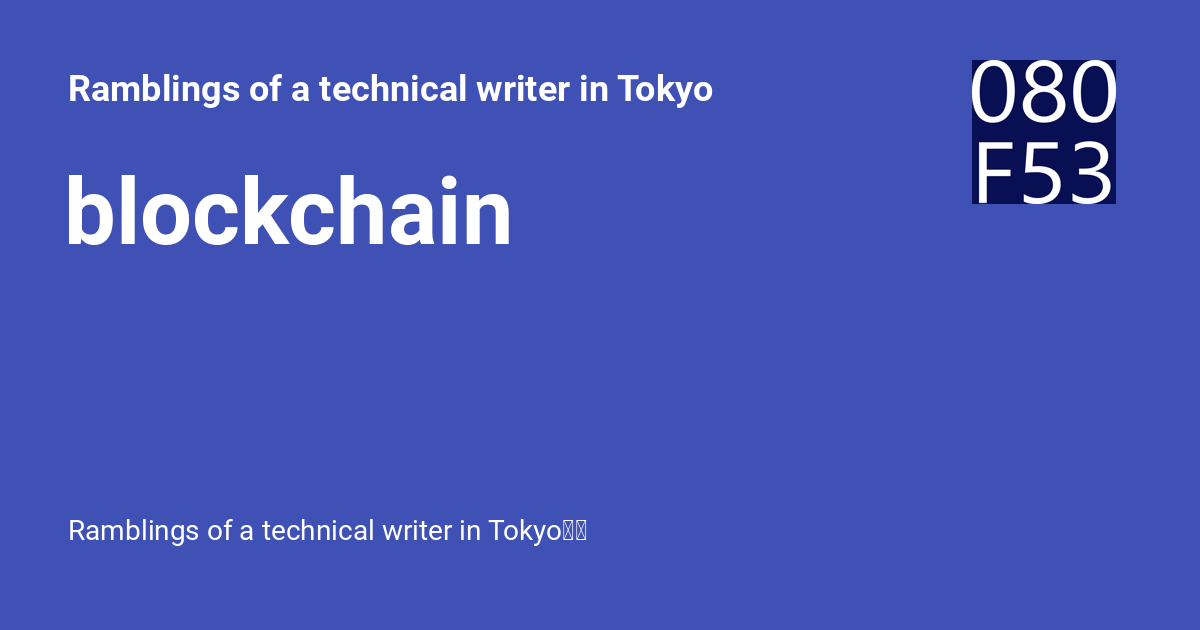
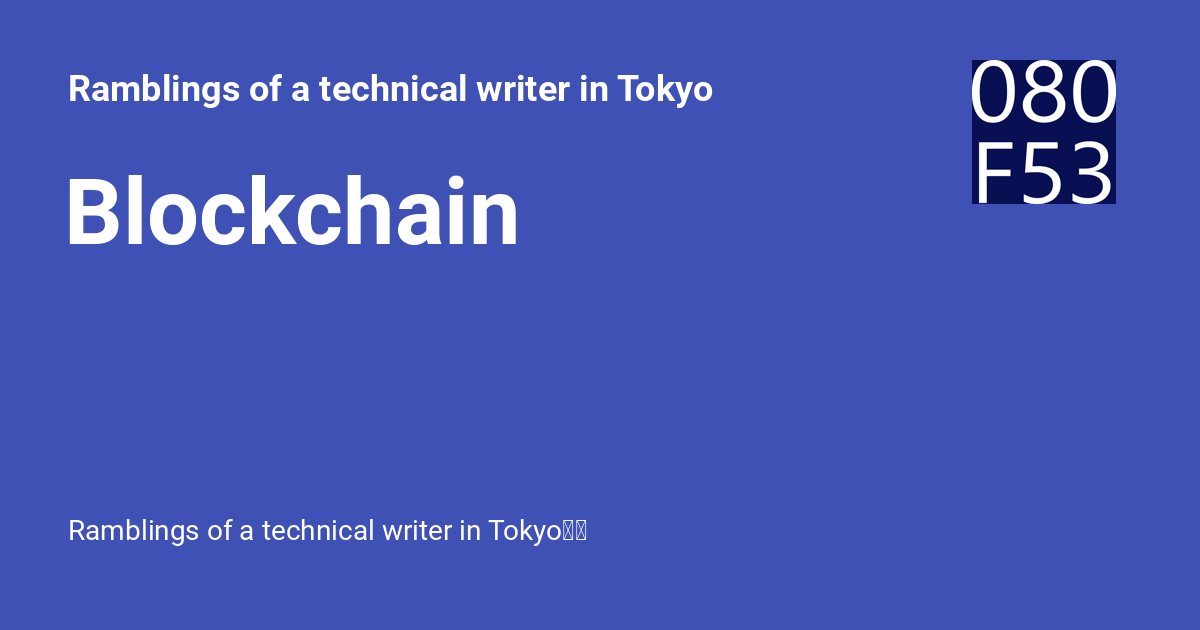
Deployed 90be3ca1 with MkDocs version: 1.4.2

Changed region(s): [[0.0617, 0.2714, 0.4317, 0.3921]]

diff --git a/category/blockchain/index.html b/category/blockchain/index.html
@@ -30,7 +30,7 @@
     
     
       
-        <title>blockchain - Ramblings of a technical writer in Tokyo</title>
+        <title>Blockchain - Ramblings of a technical writer in Tokyo</title>
       
     
     
@@ -120,7 +120,7 @@
       
         <meta  property="og:type"  content="website" >
       
-        <meta  property="og:title"  content="blockchain - Ramblings of a technical writer in Tokyo" >
+        <meta  property="og:title"  content="Blockchain - Ramblings of a technical writer in Tokyo" >
       
         <meta  property="og:description"  content="Ramblings of a technical writer in Tokyo🗼🗾" >
       
@@ -136,7 +136,7 @@
       
         <meta  name="twitter:card"  content="summary_large_image" >
       
-        <meta  name="twitter:title"  content="blockchain - Ramblings of a technical writer in Tokyo" >
+        <meta  name="twitter:title"  content="Blockchain - Ramblings of a technical writer in Tokyo" >
       
         <meta  name="twitter:description"  content="Ramblings of a technical writer in Tokyo🗼🗾" >
       
@@ -197,7 +197,7 @@
         <div class="md-header__topic" data-md-component="header-topic">
           <span class="md-ellipsis">
             
-              blockchain
+              Blockchain
             
           </span>
         </div>
@@ -781,7 +781,7 @@
     
   
     <span class="md-typeset">
-      <abbr title="A type of distributed-ledger technology">blockchain</abbr>
+      Blockchain
     </span>
   
 
@@ -1327,7 +1327,7 @@
   <div class="md-content" data-md-component="content">
     <div class="md-content__inner">
       <header class="md-typeset">
-        <h1 id="blockchain"><abbr title="A type of distributed-ledger technology">blockchain</abbr><a class="headerlink" href="#blockchain" title="Permanent link">&para;</a></h1>
+        <h1 id="blockchain">Blockchain<a class="headerlink" href="#blockchain" title="Permanent link">&para;</a></h1>
 <!-- Most of the following definitions are courtesy of Wikipedia, unless otherwise noted. -->
 <!-- *[Bitcoin]: An innovative proof-of-work blockchain payment network and a new kind of money -->
 <!-- Definition based on Bitcoin.org -->
@@ -1352,7 +1352,7 @@
           <li class="md-meta__item">
             in
             
-              <a href="./" class="md-meta__link">blockchain</a></li>
+              <a href="./" class="md-meta__link">Blockchain</a></li>
         
         
           

diff --git a/tags/index.html b/tags/index.html
@@ -766,7 +766,7 @@
     
   
     <span class="md-typeset">
-      <abbr title="A type of distributed-ledger technology">blockchain</abbr>
+      Blockchain
     </span>
   
 
@@ -1390,7 +1390,7 @@
     <span class="md-ellipsis">
       
         <span class="md-typeset">
-          <span class="md-tag">cloud-storage</span>
+          <span class="md-tag">cloud storage</span>
         </span>
       
     </span>
@@ -1734,7 +1734,7 @@
 <ul>
 <li><a href="../blog/2022/10/recap-of-my-participation-in-the-2022-tell-21007-step-up-challenge/">Recap of my participation in the 2022 TELL 21,007 Step Up Challenge</a></li>
 </ul>
-<h2 id="cloud-storage"><span class="md-tag">cloud-storage</span><a class="headerlink" href="#cloud-storage" title="Permanent link">&para;</a></h2>
+<h2 id="cloud-storage"><span class="md-tag">cloud storage</span><a class="headerlink" href="#cloud-storage" title="Permanent link">&para;</a></h2>
 <ul>
 <li><a href="../blog/2018/06/understanding-blockchain-based-decentralized-cloud-storage/">Understanding <abbr title="A type of distributed-ledger technology">blockchain</abbr>-based, decentralized cloud storage</a></li>
 </ul>

diff --git a/category/books/index.html b/category/books/index.html
@@ -772,7 +772,7 @@
     
   
     <span class="md-typeset">
-      <abbr title="A type of distributed-ledger technology">blockchain</abbr>
+      Blockchain
     </span>
   
 
@@ -1400,7 +1400,7 @@
       <nav class="md-footer__inner md-grid" aria-label="Footer" >
         
           
-          <a href="../blockchain/" class="md-footer__link md-footer__link--prev" aria-label="Previous: blockchain" rel="prev">
+          <a href="../blockchain/" class="md-footer__link md-footer__link--prev" aria-label="Previous: Blockchain" rel="prev">
             <div class="md-footer__button md-icon">
               <svg xmlns="http://www.w3.org/2000/svg" viewBox="0 0 24 24"><path d="M20 11v2H8l5.5 5.5-1.42 1.42L4.16 12l7.92-7.92L13.5 5.5 8 11h12Z"/></svg>
             </div>
@@ -1409,7 +1409,7 @@
                 <span class="md-footer__direction">
                   Previous
                 </span>
-                blockchain
+                Blockchain
               </div>
             </div>
           </a>

diff --git a/category/automation/index.html b/category/automation/index.html
@@ -782,7 +782,7 @@
     
   
     <span class="md-typeset">
-      <abbr title="A type of distributed-ledger technology">blockchain</abbr>
+      Blockchain
     </span>
   
 
@@ -1421,13 +1421,13 @@
         
         
           
-          <a href="../blockchain/" class="md-footer__link md-footer__link--next" aria-label="Next: blockchain" rel="next">
+          <a href="../blockchain/" class="md-footer__link md-footer__link--next" aria-label="Next: Blockchain" rel="next">
             <div class="md-footer__title">
               <div class="md-ellipsis">
                 <span class="md-footer__direction">
                   Next
                 </span>
-                blockchain
+                Blockchain
               </div>
             </div>
             <div class="md-footer__button md-icon">

diff --git a/blog/2018/06/understanding-blockchain-based-decentralized-cloud-storage/index.html b/blog/2018/06/understanding-blockchain-based-decentralized-cloud-storage/index.html
@@ -772,7 +772,7 @@
     
   
     <span class="md-typeset">
-      <abbr title="A type of distributed-ledger technology">blockchain</abbr>
+      Blockchain
     </span>
   
 
@@ -1401,7 +1401,7 @@
                     <span class="md-ellipsis">
                       in
                       
-                        <a href="../../../../category/blockchain/">blockchain</a></span>
+                        <a href="../../../../category/blockchain/">Blockchain</a></span>
                   </div>
                 </li>
               
@@ -1441,7 +1441,7 @@
     
       
       
-        <a href="../../../../tags/#cloud-storage" class="md-tag">cloud-storage</a>
+        <a href="../../../../tags/#cloud-storage" class="md-tag">cloud storage</a>
       
     
       

diff --git a/archive/2018/index.html b/archive/2018/index.html
@@ -782,7 +782,7 @@
     
   
     <span class="md-typeset">
-      <abbr title="A type of distributed-ledger technology">blockchain</abbr>
+      Blockchain
     </span>
   
 
@@ -1352,7 +1352,7 @@
           <li class="md-meta__item">
             in
             
-              <a href="../../category/blockchain/" class="md-meta__link">blockchain</a></li>
+              <a href="../../category/blockchain/" class="md-meta__link">Blockchain</a></li>
         
         
           

diff --git a/page/2/index.html b/page/2/index.html
@@ -770,7 +770,7 @@
     
   
     <span class="md-typeset">
-      <abbr title="A type of distributed-ledger technology">blockchain</abbr>
+      Blockchain
     </span>
   
 
@@ -1530,7 +1530,7 @@
           <li class="md-meta__item">
             in
             
-              <a href="../../category/blockchain/" class="md-meta__link">blockchain</a></li>
+              <a href="../../category/blockchain/" class="md-meta__link">Blockchain</a></li>
         
         
           

diff --git a/404.html b/404.html
@@ -733,7 +733,7 @@
     
   
     <span class="md-typeset">
-      <abbr title="A type of distributed-ledger technology">blockchain</abbr>
+      Blockchain
     </span>
   
 

diff --git a/about/index.html b/about/index.html
@@ -772,7 +772,7 @@
     
   
     <span class="md-typeset">
-      <abbr title="A type of distributed-ledger technology">blockchain</abbr>
+      Blockchain
     </span>
   
 

diff --git a/archive/2022/index.html b/archive/2022/index.html
@@ -782,7 +782,7 @@
     
   
     <span class="md-typeset">
-      <abbr title="A type of distributed-ledger technology">blockchain</abbr>
+      Blockchain
     </span>
   
 

diff --git a/archive/2023/index.html b/archive/2023/index.html
@@ -782,7 +782,7 @@
     
   
     <span class="md-typeset">
-      <abbr title="A type of distributed-ledger technology">blockchain</abbr>
+      Blockchain
     </span>
   
 

diff --git a/blog/2022/10/adding-a-smart-function-to-my-heated-blanket/index.html b/blog/2022/10/adding-a-smart-function-to-my-heated-blanket/index.html
@@ -774,7 +774,7 @@
     
   
     <span class="md-typeset">
-      <abbr title="A type of distributed-ledger technology">blockchain</abbr>
+      Blockchain
     </span>
   
 
